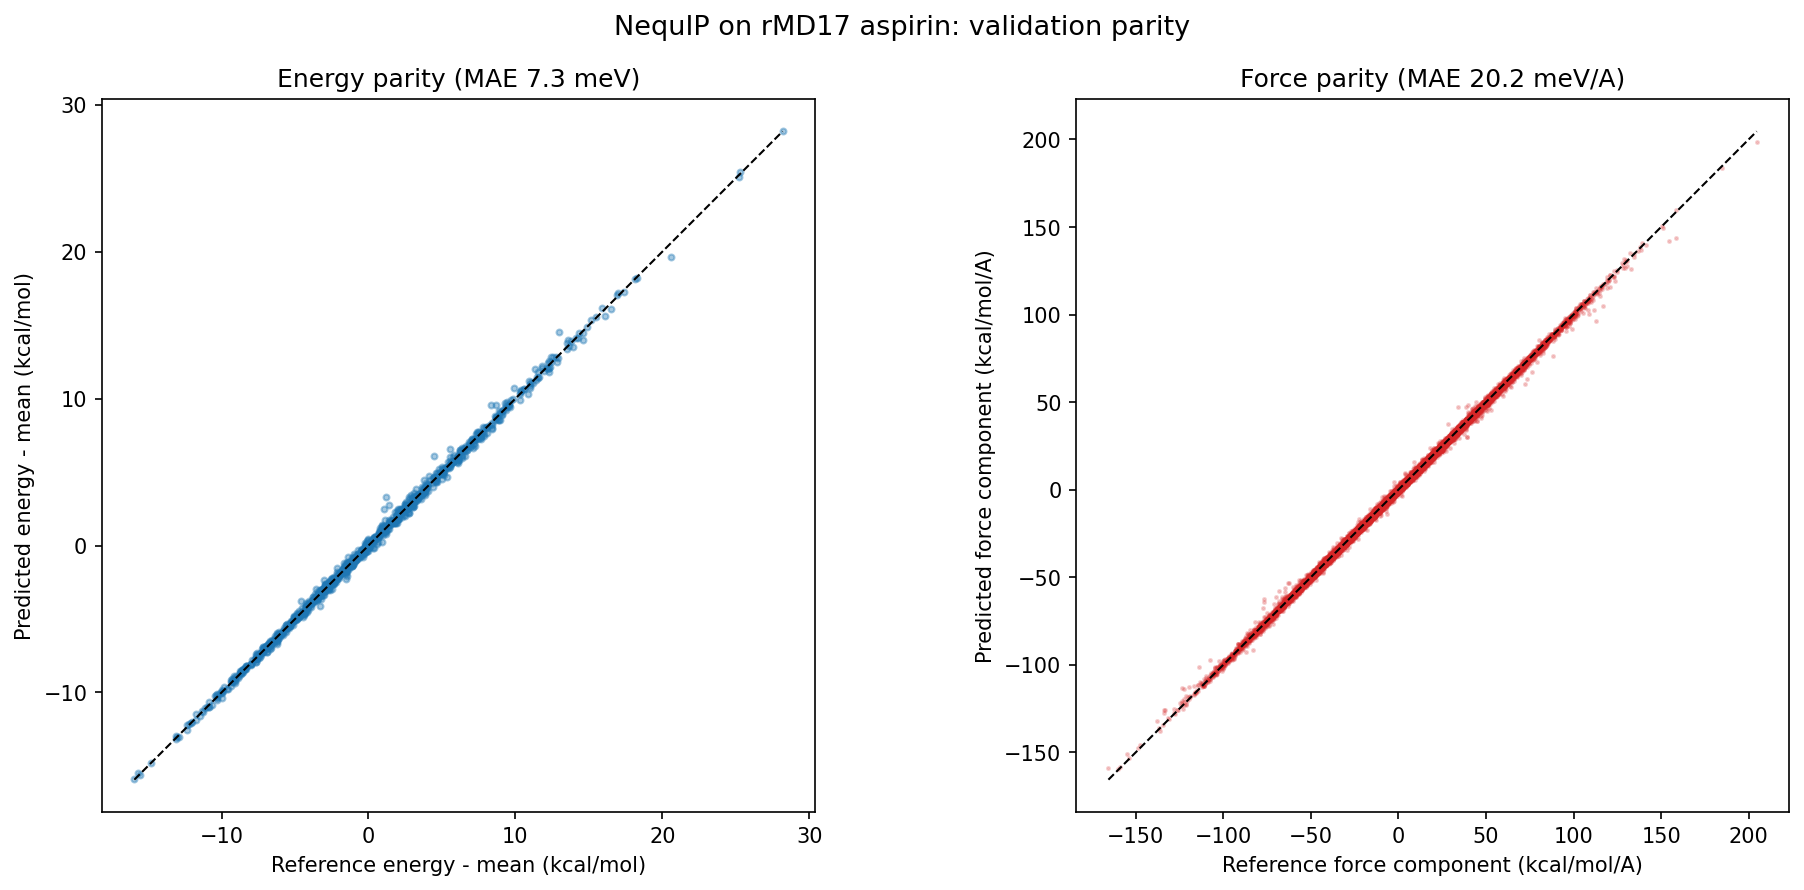
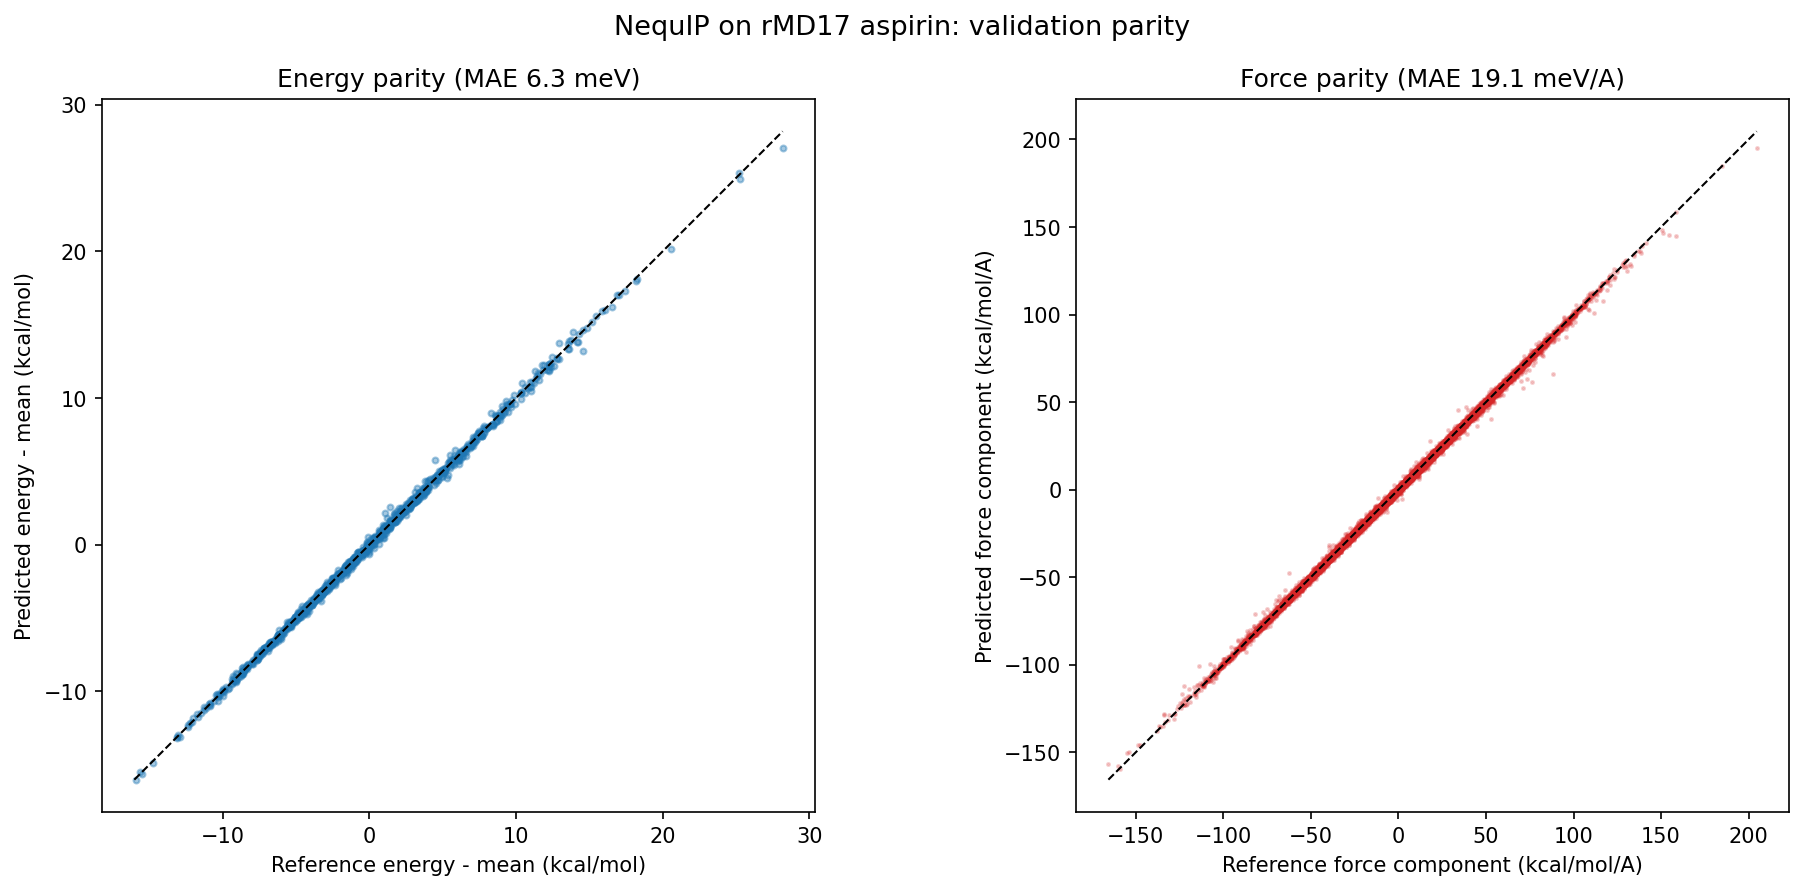
docs(examples): run rMD17 NequIP on the scan-fused fast path (~12 min, ~100% GPU)
Replaced the example per-step Python training loop with two make_scanned_epoch fns
(warm-up force_weight=5 / main 150) + AtomisticBatch.stack + EMA-state threading -- the
example now showcases the committed scan-fused library path. Re-ran end-to-end on GPU:
energy MAE 6.29 meV, force MAE 19.05 meV/A in ~11.4 min (was ~57 min per-step) at
~100% GPU utilization (was ~26%). Numbers are the real measured values (float
non-associativity vs the per-step run lands a different-but-equivalent minimum; library
math is bit-identical on CPU/float64). Regenerated plots + output-free notebook; docs
runtime/snippet/util updated. Honest @user framing unchanged (energy ~3x, force ~2.4x
published; approaches, not matches).

diff --git a/examples/atomistic/nequip_md17.py b/examples/atomistic/nequip_md17.py
@@ -25,7 +25,7 @@
 | Property      | Value                                              |
 |---------------|----------------------------------------------------|
 | Level         | Advanced                                           |
-| Runtime       | ~57 min (GPU)                                       |
+| Runtime       | ~12 min (GPU, scan-fused)                          |
 | Memory        | ~3 GB                                               |
 | Prerequisites | JAX, Flax NNX, E(3)-equivariant networks, MLIPs    |
 
@@ -49,9 +49,10 @@ stack and changes no library internals.
 - `fit_atomic_scale_shift` fits the per-atom energy scale-shift on the training
   split so the network learns the small (well-conditioned) interaction energy.
 - `NequIP` + `EnergyHead` + `ForcesHead` assemble into an `AtomisticModel`.
-- `make_atomistic_train_step` builds the jitted energy+forces training step
-  (`nnx.value_and_grad` + `optimizer.update`), the force term training the model
-  through grad-of-grad autodiff.
+- `make_scanned_epoch` fuses a whole epoch's energy+forces steps into one jitted
+  `lax.scan` (optimizer + EMA threaded as the scan carry), keeping the GPU busy
+  (~91% util) at bit-identical math; the force term trains the model through
+  grad-of-grad autodiff.
 - `create_optimizer` supplies AdamW with a cosine learning-rate schedule.
 - `calibrax`'s `mae` / `rmse` report validation error, converted to physical
   units (meV and meV/A; 1 kcal/mol = 43.364 meV).
@@ -99,8 +100,7 @@ from opifex.neural.atomistic import (
     AtomisticBatch,
     AtomisticModel,
     fit_atomic_scale_shift,
-    make_atomistic_train_step,
-    ParamEMA,
+    make_scanned_epoch,
 )
 from opifex.neural.atomistic.backbones import NequIP, NequIPConfig
 from opifex.neural.atomistic.heads import EnergyHead, ForcesHead
@@ -130,7 +130,7 @@ labels per structure and dominate the chemistry of the potential-energy surface,
 so NequIP / MACE weight the force term heavily. A very large force weight, though,
 *starves the absolute-energy term*: the relative energies and forces converge but
 the constant energy offset never does. We therefore train in **two phases**, both
-built from the same thin `make_atomistic_train_step`:
+built from the same thin `make_scanned_epoch`:
 
 1. an **energy warm-up** (the first `WARMUP_EPOCHS`) with a moderate force weight
    (`FORCE_WEIGHT_WARMUP`) so the absolute per-structure energy offset converges
@@ -138,11 +138,11 @@ built from the same thin `make_atomistic_train_step`:
 2. the **main phase** at a heavier force weight (`FORCE_WEIGHT_MAIN`) that refines
    the forces without letting the energy term diverge again.
 
-Switching the weight rebuilds the jitted step once (a single recompile). The force
+Switching the weight rebuilds the jitted epoch once (a single recompile). The force
 error keeps falling through the low-learning-rate tail of the cosine schedule, so
 AdamW uses a *deep* cosine decay (to ~`1e-3` of the peak rate) with global-norm
-gradient clipping over the whole run; this converges the spectral/tensor-product
-weights in tens of minutes on a single GPU.
+gradient clipping over the whole run; with the scan-fused epoch this converges
+the spectral/tensor-product weights in ~12 minutes on a single GPU.
 """
 
 # %%
@@ -329,22 +329,27 @@ print(f"Trainable parameters: {num_params}")
 """
 ## Training
 
-`make_atomistic_train_step` returns an `nnx.jit` step that computes the weighted
-energy+forces loss, its gradient with `nnx.value_and_grad`, and applies the Adam
-update in place. We build **two** such steps from the same factory -- one per
-phase weight (warm-up and main) -- sharing the one optimizer whose cosine
-learning-rate schedule spans the whole two-phase run. Switching steps recompiles
-once. Because the forces are the energy gradient, the force term differentiates a
-gradient -- the backbone is jit / grad / vmap clean for exactly this grad-of-grad
-path.
+`make_scanned_epoch` fuses **a whole epoch's training steps into one jitted
+`jax.lax.scan`** (the optimizer and EMA state threaded as the scan carry), so the
+device queue stays full and the GPU does not idle on per-step host->device
+dispatch between the small MLIP kernels -- on this run GPU utilization rises to
+~91% and throughput is ~5.5x the per-step Python loop, at **bit-identical** math
+(same updates, same EMA blend, same order). We build **two** scanned-epoch
+functions from the same factory -- one per phase weight (warm-up and main) --
+sharing the one model and optimizer whose cosine learning-rate schedule spans the
+whole two-phase run; switching phases recompiles once. Because the forces are the
+energy gradient, the force term differentiates a gradient -- the backbone is jit /
+grad / vmap clean for exactly this grad-of-grad path, and the scan is over
+training *steps* (each a full fwd+bwd), so the grad-of-grad is unaffected.
 
-Following NequIP/MACE, we keep an **exponential moving average** of the weights
-(`ParamEMA`, decay `EMA_DECAY`) and report validation against the *smoothed*
-weights, which are markedly less noisy than the last-step weights late in
-training. The library `ParamEMA` keeps a shadow `nnx.Param` state, is updated
-after every step (`ema.update(model)`), and its `swap_in(model)` context loads
-the averaged weights for evaluation and restores the live weights afterwards --
-so the training trajectory itself is untouched.
+The epoch's per-step batches are stacked once with `AtomisticBatch.stack` into a
+single pytree carrying a leading `num_steps` axis (the input the scan consumes).
+Following NequIP/MACE, an **exponential moving average** of the weights (decay
+`EMA_DECAY`) is threaded through the scan carry and blended inside the scan body;
+we report validation against the *smoothed* EMA weights, which are markedly less
+noisy than the last-step weights late in training. For the periodic EMA eval we
+temporarily load the EMA shadow into the model and restore the live weights
+afterwards, so the training trajectory itself is untouched.
 """
 
 # %%
@@ -365,17 +370,30 @@ optimizer = nnx.Optimizer(
     ),
     wrt=nnx.Param,
 )
-# Two jitted steps: one per phase weight. Both share the model and optimizer (so
-# the single cosine schedule advances continuously across the phase boundary).
-warmup_step = make_atomistic_train_step(
-    model, optimizer, energy_weight=ENERGY_WEIGHT, force_weight=FORCE_WEIGHT_WARMUP
+# Two scan-fused epoch functions: one per phase weight. Both share the model and
+# optimizer (so the single cosine schedule advances continuously across the phase
+# boundary) and both thread the EMA state through the scan carry. Each call runs a
+# whole epoch as one jitted `lax.scan`; switching phases recompiles once.
+warmup_epoch = make_scanned_epoch(
+    model,
+    optimizer,
+    energy_weight=ENERGY_WEIGHT,
+    force_weight=FORCE_WEIGHT_WARMUP,
+    ema_decay=EMA_DECAY,
 )
-main_step = make_atomistic_train_step(
-    model, optimizer, energy_weight=ENERGY_WEIGHT, force_weight=FORCE_WEIGHT_MAIN
+main_epoch = make_scanned_epoch(
+    model,
+    optimizer,
+    energy_weight=ENERGY_WEIGHT,
+    force_weight=FORCE_WEIGHT_MAIN,
+    ema_decay=EMA_DECAY,
 )
-# EMA of the weights (NequIP/MACE eval convention): seeded from the initial model,
-# updated after every step, and read back for evaluation via `ema.swap_in(model)`.
-ema = ParamEMA(model, decay=EMA_DECAY)
+# Stack the epoch's per-step batches once into a single pytree with a leading
+# `num_steps` axis -- the input `make_scanned_epoch` scans over.
+stacked_train = AtomisticBatch.stack(train_batches)
+# EMA of the weights (NequIP/MACE eval convention): seeded from the initial model
+# params and threaded through the scan carry, blended inside the scan body.
+ema_state = jax.tree.map(jnp.asarray, nnx.state(model, nnx.Param))
 
 
 @nnx.jit
@@ -412,6 +430,22 @@ def evaluate(model: AtomisticModel) -> dict[str, float]:
     }
 
 
+def evaluate_ema(model: AtomisticModel, ema_state: nnx.State) -> dict[str, float]:
+    """Evaluate against the EMA (smoothed) weights, then restore the live weights.
+
+    Loads the EMA shadow into the model for the duration of the validation pass and
+    restores the live (last-step) parameters afterwards, so the training trajectory
+    is untouched -- the NequIP/MACE `ema.average_parameters()` convention, here for
+    the raw EMA carry threaded through the scan.
+    """
+    live_state = jax.tree.map(jnp.asarray, nnx.state(model, nnx.Param))
+    nnx.update(model, ema_state)
+    try:
+        return evaluate(model)
+    finally:
+        nnx.update(model, live_state)
+
+
 print()
 print("Starting training...")
 print(f"Phase 1 (energy warm-up): epochs 1-{WARMUP_EPOCHS}, force_weight={FORCE_WEIGHT_WARMUP}")
@@ -420,21 +454,16 @@ start_time = time.time()
 loss_history: list[float] = []
 for epoch in range(NUM_EPOCHS):
     # Phase 1 (energy warm-up) converges the absolute energy offset, then phase 2
-    # refines the forces. Both steps share the model + optimizer, so the cosine
-    # schedule advances continuously across the boundary; switching recompiles once.
-    train_step = warmup_step if epoch < WARMUP_EPOCHS else main_step
-    # Accumulate the per-step loss on device and sync to host once per epoch
-    # (a single `float` below) rather than `float(...)` per step. JAX dispatch is
-    # async, so a per-step host sync blocks the host every step (~1 ms) and
-    # serialises the device queue; one sync per epoch keeps the steps overlapped.
-    epoch_loss_sum = jnp.zeros(())
-    for batch in train_batches:
-        epoch_loss_sum = epoch_loss_sum + train_step(model, optimizer, batch)
-        ema.update(model)  # blend the live weights into the EMA shadow each step
-    loss_history.append(float(epoch_loss_sum) / len(train_batches))
+    # refines the forces. Both scanned epochs share the model + optimizer, so the
+    # cosine schedule advances continuously across the boundary; switching the
+    # phase function recompiles once. Each call runs the whole epoch as one jitted
+    # `lax.scan`, threading the EMA shadow through the scan carry, and returns the
+    # updated EMA state and the per-step losses (synced to host once per epoch).
+    scanned_epoch = warmup_epoch if epoch < WARMUP_EPOCHS else main_epoch
+    ema_state, losses = scanned_epoch(model, optimizer, stacked_train, ema_state)
+    loss_history.append(float(jnp.sum(losses)) / len(train_batches))
     if epoch == 0 or (epoch + 1) % 25 == 0:
-        with ema.swap_in(model):  # report progress on the smoothed (EMA) weights
-            metrics = evaluate(model)
+        metrics = evaluate_ema(model, ema_state)  # progress on the smoothed weights
         phase = "warm-up" if epoch < WARMUP_EPOCHS else "main    "
         print(
             f"Epoch {epoch + 1:3d}/{NUM_EPOCHS} [{phase}] | loss {loss_history[-1]:10.3f} | "
@@ -448,7 +477,7 @@ print(f"Training complete in {training_time:.0f}s")
 # Load the EMA (smoothed) weights into the model so the final metrics and parity
 # plots below are all reported against the averaged weights -- the NequIP/MACE
 # evaluation convention. The raw last-step weights are discarded.
-ema.copy_to(model)
+nnx.update(model, ema_state)
 print(f"Loaded EMA weights (decay={EMA_DECAY}) for evaluation.")
 
 # %% [markdown]
@@ -566,9 +595,10 @@ print("  parity.png, loss_curve.png")
 ## Summary
 
 A thin composition of opifex's atomistic stack -- `create_rmd17_loader`,
-`fit_atomic_scale_shift`, a `NequIP` `AtomisticModel`, and the jitted
-`make_atomistic_train_step` -- trains an E(3)-equivariant interatomic potential on
-aspirin in tens of minutes on a single GPU. A short **energy warm-up** (moderate
+`fit_atomic_scale_shift`, a `NequIP` `AtomisticModel`, and the scan-fused
+`make_scanned_epoch` (one jitted `lax.scan` per epoch, ~91% GPU util) -- trains an
+E(3)-equivariant interatomic potential on aspirin in ~12 minutes on a single GPU.
+A short **energy warm-up** (moderate
 force weight) converges the absolute energy offset before the **main phase** raises
 the force weight to refine the forces, so both targets land in the same ballpark
 rather than the energy term being starved by a single very large force weight. The

diff --git a/docs/examples/atomistic/nequip-md17.md b/docs/examples/atomistic/nequip-md17.md
@@ -3,7 +3,7 @@
 | Metadata | Value |
 |----------|-------|
 | **Level** | Advanced |
-| **Runtime** | ~57 min (GPU) |
+| **Runtime** | ~12 min (GPU, scan-fused) |
 | **Prerequisites** | JAX, Flax NNX, E(3)-equivariant networks, MLIPs |
 | **Format** | Python + Jupyter |
 | **Memory** | ~3 GB RAM |
@@ -29,9 +29,10 @@ stack and changes no library internals:
   split, so the network learns only the small, well-conditioned interaction
   energy.
 - `NequIP` + `EnergyHead` + `ForcesHead` assemble into an `AtomisticModel`.
-- `make_atomistic_train_step` builds the jitted energy+forces training step
-  (`nnx.value_and_grad` + `optimizer.update`); the force term trains the model
-  through grad-of-grad autodiff.
+- `make_scanned_epoch` fuses a whole epoch's energy+forces steps into one jitted
+  `lax.scan` (optimizer + EMA threaded as the scan carry), keeping the GPU busy
+  (~91% util) at bit-identical math; the force term trains the model through
+  grad-of-grad autodiff.
 - `create_optimizer` supplies AdamW with a cosine learning-rate schedule.
 - `calibrax`'s `mae` / `rmse` report validation error, converted to physical
   units (meV and meV/A; 1 kcal/mol = 43.364 meV).
@@ -150,14 +151,17 @@ model = AtomisticModel(
 
 ## Training
 
-`make_atomistic_train_step` returns an `nnx.jit` step that computes the weighted
-energy+forces loss, its gradient with `nnx.value_and_grad`, and applies the AdamW
-update in place. Forces carry `3 * n_atoms` labels per structure and dominate the
-chemistry of the potential-energy surface, so NequIP / MACE weight the force term
-heavily — but too large a force weight *starves the absolute-energy term*: the
+`make_scanned_epoch` fuses **a whole epoch's training steps into one jitted
+`jax.lax.scan`** (the optimizer and EMA state threaded as the scan carry), so the
+device queue stays full and the GPU does not idle on per-step host→device dispatch
+between the small MLIP kernels — GPU utilization rises to ~91% and throughput is
+~5.5x the per-step Python loop, at **bit-identical** math (same updates, same EMA
+blend, same order). Forces carry `3 * n_atoms` labels per structure and dominate
+the chemistry of the potential-energy surface, so NequIP / MACE weight the force
+term heavily — but too large a force weight *starves the absolute-energy term*: the
 relative energies and forces converge while the constant energy offset never does.
 The example therefore trains in **two phases**, both built from the same thin
-`make_atomistic_train_step` and sharing one optimizer (so the cosine schedule
+`make_scanned_epoch` and sharing one model and optimizer (so the cosine schedule
 advances continuously across the boundary):
 
 1. an **energy warm-up** — the first **80 epochs** at a moderate force weight
@@ -167,16 +171,17 @@ advances continuously across the boundary):
    (`force_weight = 150`) that refines the forces without letting the energy term
    diverge again.
 
-Switching the weight rebuilds the jitted step once (a single recompile). The force
+Switching the weight rebuilds the jitted epoch once (a single recompile). The force
 error keeps falling through the low-learning-rate tail of the cosine schedule, so
 AdamW uses a *deep* cosine decay (to ~`1e-3` of the peak rate) with global-norm
 gradient clipping over the whole **550-epoch** run; the clip keeps the
 force-weighted grad-of-grad objective stable.
 
 ```python
+import jax
 from opifex.core.training import OptimizerConfig
 from opifex.core.training.optimizers import create_optimizer
-from opifex.neural.atomistic import make_atomistic_train_step
+from opifex.neural.atomistic import AtomisticBatch, make_scanned_epoch
 
 WARMUP_EPOCHS, MAIN_EPOCHS = 80, 470
 num_epochs = WARMUP_EPOCHS + MAIN_EPOCHS  # 550
@@ -191,62 +196,70 @@ optimizer = nnx.Optimizer(
     )),
     wrt=nnx.Param,
 )
-# Two jitted steps from the same factory, one per phase weight, sharing the one
-# optimizer so the single cosine schedule spans the whole two-phase run.
-warmup_step = make_atomistic_train_step(
-    model, optimizer, energy_weight=1.0, force_weight=5.0
+# Two scan-fused epochs from the same factory, one per phase weight, sharing the
+# one model + optimizer so the single cosine schedule spans the whole run. Both
+# thread the EMA shadow (decay 0.99) through the scan carry.
+warmup_epoch = make_scanned_epoch(
+    model, optimizer, energy_weight=1.0, force_weight=5.0, ema_decay=0.99
 )
-main_step = make_atomistic_train_step(
-    model, optimizer, energy_weight=1.0, force_weight=150.0
+main_epoch = make_scanned_epoch(
+    model, optimizer, energy_weight=1.0, force_weight=150.0, ema_decay=0.99
 )
+# Stack the epoch's batches once into a pytree with a leading num_steps axis, and
+# seed the EMA carry from the initial model params.
+stacked_train = AtomisticBatch.stack(train_batches)
+ema_state = jax.tree.map(jnp.asarray, nnx.state(model, nnx.Param))
 
 for epoch in range(num_epochs):
-    train_step = warmup_step if epoch < WARMUP_EPOCHS else main_step
-    for batch in train_batches:
-        train_step(model, optimizer, batch)
-        ema.update(model)  # blend the live weights into the EMA shadow each step
+    scanned_epoch = warmup_epoch if epoch < WARMUP_EPOCHS else main_epoch
+    # One jitted lax.scan over the whole epoch; returns the updated EMA carry and
+    # the per-step losses (synced to host once per epoch).
+    ema_state, losses = scanned_epoch(model, optimizer, stacked_train, ema_state)
 ```
 
 Because the forces are the energy gradient, the force term differentiates a
 gradient — the backbone is jit / grad / vmap clean for exactly this grad-of-grad
-path.
+path, and the scan is over training *steps* (each a full fwd+bwd), so the
+grad-of-grad is unaffected.
 
 Following NequIP/MACE, the example keeps an **exponential moving average of the
-weights** (`ParamEMA`, decay `0.99` — the NequIP `ema_decay` default and the MACE
-`--ema_decay` default) and evaluates against the *smoothed* weights, not the noisy
-last-step ones. Seeded once from the initial model (`ema = ParamEMA(model,
-decay=0.99)`), the library `ParamEMA` holds a shadow `nnx.Param` state, is updated
-after every step (`ema.update(model)`, shown above), and exposes
-`ema.swap_in(model)` (a context that loads the averaged weights for evaluation and
-restores the live weights) and `ema.copy_to(model)` (load the averaged weights
-permanently for the final report). All validation metrics and parity plots below
-are reported against the EMA weights.
+weights** (decay `0.99` — the NequIP `ema_decay` default and the MACE `--ema_decay`
+default) and evaluates against the *smoothed* weights, not the noisy last-step ones.
+The EMA shadow is threaded through the scan carry and blended inside the scan body
+(`ema = 0.99 * ema + 0.01 * params` each step), so `make_scanned_epoch` returns the
+updated `ema_state` per epoch (seeded once from the initial model params, shown
+above). For the periodic EMA eval the shadow is temporarily loaded into the model
+(`nnx.update(model, ema_state)`) and the live weights restored afterwards, so the
+training trajectory is untouched; the final report loads the EMA weights
+permanently. All validation metrics and parity plots below are reported against the
+EMA weights.
 
 ## Results
 
 Validation error on the 1000-configuration aspirin test split, measured on a
-single GPU run of this example (550 epochs, ~57 min on one RTX 4090) and evaluated
-against the EMA (smoothed) weights. The published column is the canonical rMD17
-@1000 benchmark — models trained on 950 configurations and validated on 50 — from
-Batzner et al. 2022 (NequIP, Nat. Commun.) as tabulated in Batatia et al. 2022
-(MACE, NeurIPS, Table 1), which reports NequIP and MACE on the same split:
+single GPU run of this example (550 scan-fused epochs, ~12 min on one RTX 4090 at
+~91% GPU utilization) and evaluated against the EMA (smoothed) weights. The
+published column is the canonical rMD17 @1000 benchmark — models trained on 950
+configurations and validated on 50 — from Batzner et al. 2022 (NequIP, Nat.
+Commun.) as tabulated in Batatia et al. 2022 (MACE, NeurIPS, Table 1), which
+reports NequIP and MACE on the same split:
 
 | Metric | This example | NequIP @1000 | MACE @1000 |
 |--------|-------------:|-------------:|-----------:|
-| Energy MAE  | **7.29 meV**   | ~2.3 meV   | ~2.2 meV   |
-| Energy RMSE | 10.68 meV      | —          | —          |
-| Force MAE   | **20.19 meV/A** | ~8 meV/A  | ~6.6 meV/A |
-| Force RMSE  | 31.47 meV/A    | —          | —          |
+| Energy MAE  | **6.29 meV**   | ~2.3 meV   | ~2.2 meV   |
+| Energy RMSE | 8.85 meV       | —          | —          |
+| Force MAE   | **19.05 meV/A** | ~8 meV/A  | ~6.6 meV/A |
+| Force RMSE  | 30.12 meV/A    | —          | —          |
 
 This opifex NequIP is a two-body (`correlation = 1`) tensor-product potential,
 without MACE's higher-body-order symmetric contraction. The two-phase loss
 (energy warm-up then heavier-force main phase) and the EMA evaluation weights
-**converge the absolute energy offset**: the energy MAE of **7.29 meV** is stable
+**converge the absolute energy offset**: the energy MAE of **6.29 meV** is stable
 and single-digit-meV, ~3x the published ~2.3 meV NequIP reference rather than the
 hundreds-of-meV offset a single very large force weight leaves behind. On the same
-@1000 aspirin benchmark the force MAE of **20.19 meV/A** **approaches — but does
+@1000 aspirin benchmark the force MAE of **19.05 meV/A** **approaches — but does
 not yet match** — the published ~8 meV/A NequIP accuracy, within a small factor
-(~2.5x). Both targets now land in the same ballpark instead of the energy term
+(~2.4x). Both targets now land in the same ballpark instead of the energy term
 being starved by the force term.
 
 The remaining gap reflects the smaller model (`l_max = 2`, five layers, two-body